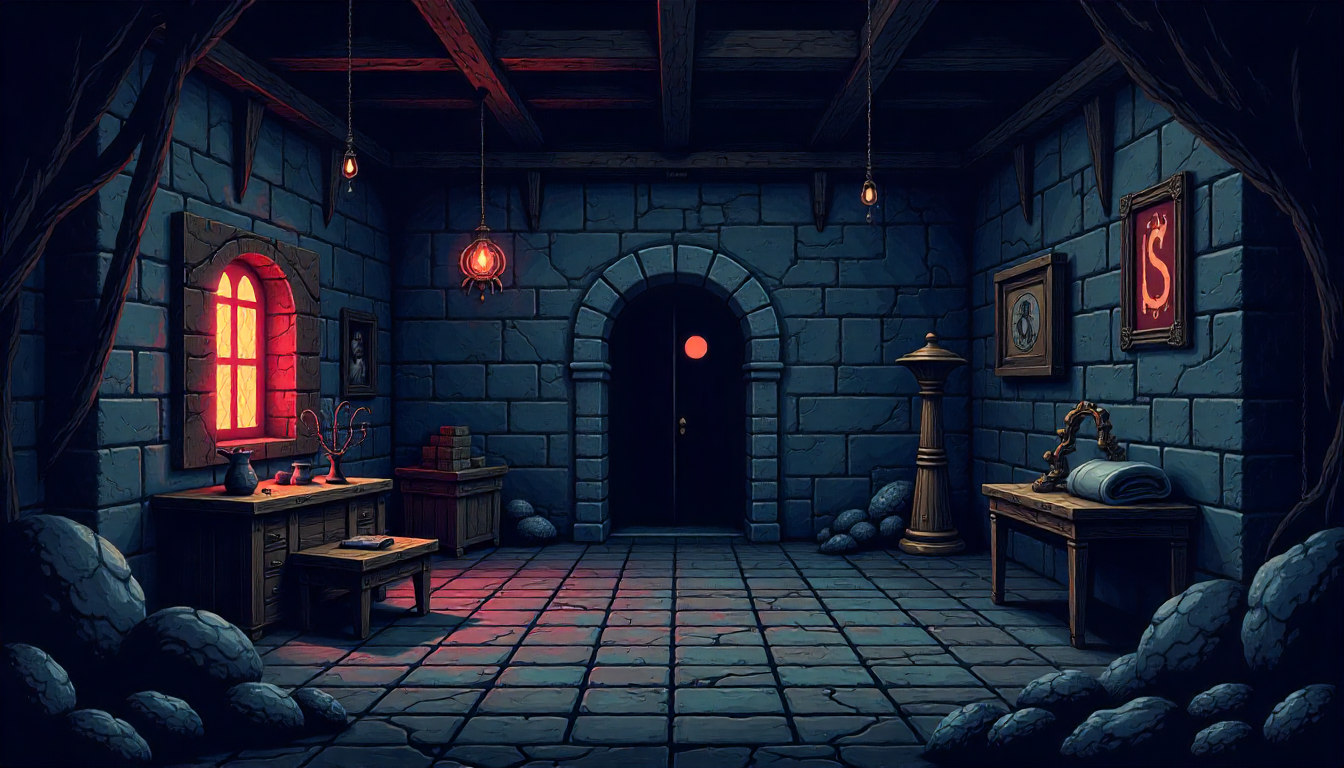
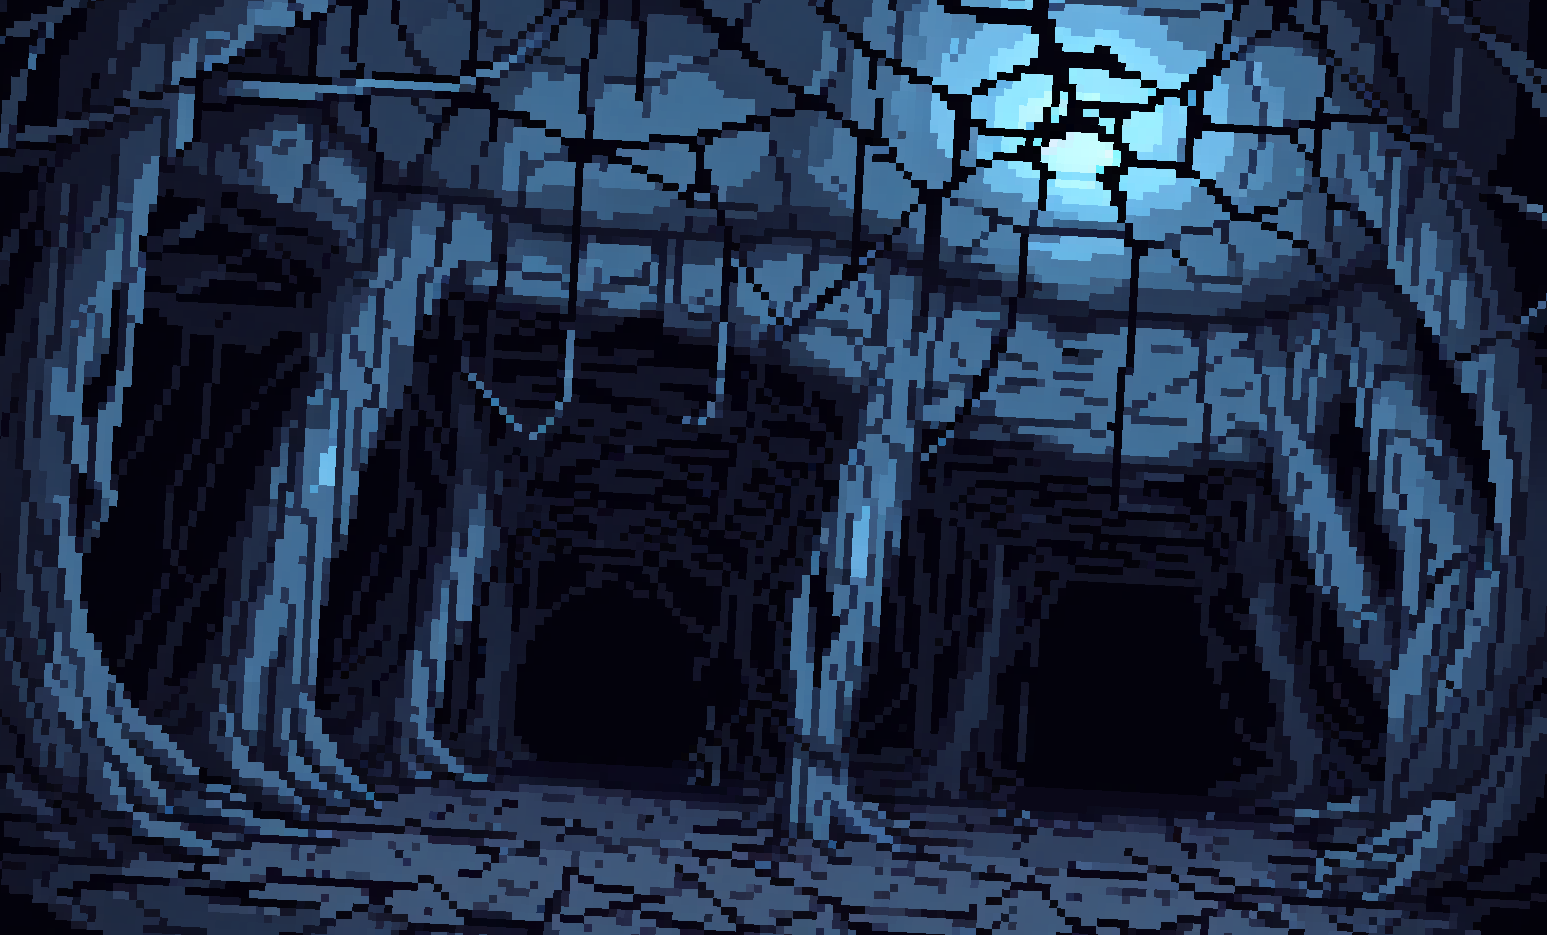
combat names

diff --git a/engine.js b/engine.js
@@ -212,25 +212,29 @@ async function combat() {
         }
 
         const combatPlayerImg = document.querySelector('.combat-player-img');
-        if (combatPlayerImg && selectedCharacter) {
+        const combatPlayerName = document.querySelector('.combat-player-name')
+        if (combatPlayerName && combatPlayerImg && selectedCharacter) {
             // Példa: különböző hátterek különböző ellenségekhez
             const background2 = selectedCharacter.image; // Példa: az első választás célja alapján
-            
             combatPlayerImg.style.backgroundImage = 'url(' + background2 + ')';
             combatPlayerImg.style.backgroundSize = 'cover';
             combatPlayerImg.style.backgroundPosition = 'center';
             console.log("✓ Játékos kép beállítva " + background2);
+
+            combatPlayerName.innerText = selectedCharacter.name;
         }
 
         const combatEnemyImg = document.querySelector('.combat-enemy-img');
+        const combatEnemyName = document.querySelector('.combat-enemy-name')
         if (combatEnemyImg && currentCard.enemy) {
             // Példa: különböző hátterek különböző ellenségekhez
-            const background3 = currentCard.enemy[0].name; // Példa: az első választás célja alapján
-            
+            const background3 = currentCard.enemy[0].name; // Példa: az első választás célja alapján           
             combatEnemyImg.style.backgroundImage = 'url("pieces/monsters/' + background3 + '.png")';
             combatEnemyImg.style.backgroundSize = 'cover';
             combatEnemyImg.style.backgroundPosition = 'center';
             console.log("✓ Ellenfél kép beállítva " + background3 +".png");
+
+            combatEnemyName.innerText = currentCard.enemy[0].name;
         }
         
        
@@ -333,10 +337,12 @@ async function combat() {
                         
                         // ✅ Ellenfél kép frissítése
                         const combatEnemyImg = document.querySelector('.combat-enemy-img');
-                        if (combatEnemyImg) {
+                        const combatEnemyName = document.querySelector('.combat-enemy-name')
+                        if (combatEnemyImg && combatEnemyName) {
                             const newEnemyImage = currentCard.enemy[currentEnemyIndex].name;
                             combatEnemyImg.style.backgroundImage = 'url("pieces/monsters/' + newEnemyImage + '.png")';
                             console.log('✓ Új ellenfél képe beállítva: ' + newEnemyImage);
+                            combatEnemyName.innerText = currentCard.enemy[currentEnemyIndex].name
                         }
                         
                     } else {

diff --git a/pieces/combat.html b/pieces/combat.html
@@ -1,6 +1,8 @@
 <div class="combat-popup">
     <div class="combat-player">
         <div class="combat-player-img"></div>
+        <div class="combat-player-name"></div>
+
     </div>    
     <div class="combat-actions">
         <div class="combat-fortune">
@@ -113,6 +115,22 @@
     </div>
     <div class="combat-enemy">
         <div class="combat-enemy-img"></div>
+        <div class="combat-enemy-name"></div>
+        <!--
+        <div class="combat-enemy-health">
+            <p style="font-size: 12px; display: inline-block;">Életerő</p>
+            <svg class="statbar_combat eletero_bar" xmlns="http://www.w3.org/2000/svg"
+                viewBox="0 -0.5 38 9" shape-rendering="crispEdges" preserveAspectRatio="none">
+                <path stroke="#222034" d="M2 0h34M1 1h1M36 1h1M0 2h1M3 2h32M37 2h1M0 3h1M2 3h1M35 3h1M37 3h1M0 4h1M2 4h1M35 4h1M37 4h1M0 5h1M2 5h1M35 5h1M37 5h1M0 6h1M3 6h32M37 6h1M1 7h1M36 7h1M2 8h34"/>
+                <path stroke="#ffffff" d="M2 1h34"/>
+                <path stroke="#f2f2f5" d="M1 2h2M35 2h2M1 3h1M36 3h1M1 4h1M36 4h1M1 5h1M36 5h1M1 6h2M35 6h2M2 7h34"/>
+                <path stroke="#323c39" d="M3 3h32"/>
+                <path stroke="#494d4c" d="M3 4h32M3 5h32"/>
+                <svg x="3" y="2.5" width="32" height="3">
+                    <rect class="fill eletero_fill" height="3"/>
+                </svg>
+            </svg>
+        </div>-->
     </div>
 
 

diff --git a/game.html b/game.html
@@ -77,7 +77,7 @@
                                             </div>
                                             <div class="button-row">
                                                 <button type="button" class="accept-btn" id="accept-btn" onclick="acceptCharacter()">ELFOGADÁS</button>
-                                                <button type="button" class="next-btnn" id="nextBtn" style="display: none;" onclick="showCard(41)">TOVÁBB</button>
+                                                <button type="button" class="next-btnn" id="nextBtn" style="display: none;" onclick="showCard(18)">TOVÁBB</button>
                                             </div>
                                     </div>
                                 </div>

diff --git a/game.css b/game.css
@@ -1123,5 +1123,26 @@ input[type="range"]
   width: fit-content;
 }
 
+.combat-player-name, .combat-enemy-name{
+  font-size: 1rem;
+  color: black;
+  height: fit-content;
+  width: fit-content;
+}
+
+
+.combat-player-healthbar, .combat-enemy-healthbar{
+  width: 100%;
+  border: 1px solid red;
+}
+.statbar_combat {
+    width: 150px;
+    height: 20px;            
+    display: block;
+    overflow: visible;
+    margin-bottom: 5px;
+    margin-top: 0px;
+    margin: 0;
+}
 
 
